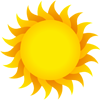
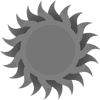
Color Fixed

diff --git a/SolarSystemManager.WEB/src/views/SolarSystemViewerView.vue b/SolarSystemManager.WEB/src/views/SolarSystemViewerView.vue
@@ -56,12 +56,12 @@ app.ticker.add((delta) =>
 });
 
 
-
+const solarObjects = ref([])
 // Get the json data for the solar system based on the id
-const solarObjects = SolarSystemService.GetSpaceObjects()
-
+solarObjects.value = SolarSystemService.GetSpaceObjects()
+console.log(solarObjects)
 //loop through the json data and plot the objects on the screen
-solarObjects.then((response) => {
+solarObjects.value.then((response) => {
 
   solarObjects.value = JSON.parse(response)
   console.log('hit')
@@ -74,14 +74,16 @@ solarObjects.then((response) => {
     console.log(solarObjects.value[i].objectSize)
     console.log(solarObjects.value[i].objectColor)
 
-    const sObj = PIXI.Sprite.from('/src/assets/Images/V_E/sun.png');
-    sObj.anchor.set(0.5);
-    sObj.scale.set(solarObjects.value[i].objectSize,solarObjects.value[i].objectSize);
-    sObj.x = solarObjects.value[i].xCoord;
-    sObj.y = solarObjects.value[i].yCoord;
-    sObj.blendMode = PIXI.BLEND_MODES.ADD()
+    const sprite = PIXI.Sprite.from('/src/assets/Images/V_E/sun.png');
+    sprite.anchor.set(0.5);
+    sprite.scale.set(solarObjects.value[i].objectSize *.2,solarObjects.value[i].objectSize * .2);
+    sprite.x = solarObjects.value[i].xCoord;
+    sprite.y = solarObjects.value[i].yCoord;
+    console.log('color: '+solarObjects.value[i].objectColor)
+    sprite.tint = solarObjects.value[i].objectColor;
+    //sObj.blendMode = PIXI.BLEND_MODES.ADD()
     // app.stage.addChild(sObj);
-    container.addChild(sObj);
+    container.addChild(sprite);
 
 
   }

diff --git a/SolarSystemManager.WEB/src/services/SolarSystemService.ts b/SolarSystemManager.WEB/src/services/SolarSystemService.ts
@@ -23,20 +23,17 @@ export default class SolarSystemService {
         console.error('Error in LoginService: ', error)
       })
   }
+  
+  static async GetSpaceObjects(): Promise<any> {
+      return FetchAPIService.get('/SolarSystem/GetSpaceObjects').then((data) => {
+          console.log('SolarSystemService: ', data)
+          return data
+      })
+  }
 
   static async GetPublicSolarSystems(): Promise<any> {
-    return FetchAPIService.get('/SolarSystem/GetAllPublicSolarSystems').then((data) => {
-      console.log('SolarSystemService: ', data)
-      return data
-    })
-    }
+   
 
-    static async GetSpaceObjects(): Promise<any> {
-        return FetchAPIService.get('/SolarSystem/GetSpaceObjects').then((data) => {
-            console.log('SolarSystemService: ', data)
-            return data
-        })
-    }
     return FetchAPIService.get('/SolarSystem/GetAllPublicSolarSystems')
       .then((data) => {
         return JSON.parse(data)

diff --git a/SolarSystemManager.RESTAPI/Controllers/SolarSystemController.cs b/SolarSystemManager.RESTAPI/Controllers/SolarSystemController.cs
@@ -107,12 +107,12 @@ namespace SolarSystemManager.RESTAPI.Controllers
             {
               //space object template
               //new SpaceObject(objID, systemId, objName, objType, x, y, objSize, objColor);
-                new SpaceObject(1, 1, "Sirius A", "Star", 5, 0, 10, 0x18D3BC), //two stars
-                new SpaceObject(2, 1, "Sirius B", "Star", 0, 0, 7, 0x25BCD6),
+                new SpaceObject(1, 1, "Sirius A", "Star", 5, 0, 10, "18D3BC"), //two stars
+                new SpaceObject(2, 1, "Sirius B", "Star", 0, 0, 7, "25BCD6"),
 
-                new SpaceObject(3, 1, "Thor", "Planet", 15, 0, 2, 0xE5E21C), //three planets
-                new SpaceObject(4, 1, "Loki", "Planet", 20, 0, 1, 0x1CE556),
-                new SpaceObject(5, 1, "Odin", "Planet", 25, 0, 3, 0x2F1CE5)
+                new SpaceObject(3, 1, "Thor", "Planet", 15, 0, 2, "E5E21C"), //three planets
+                new SpaceObject(4, 1, "Loki", "Planet", 20, 0, 1, "1CE556"),
+                new SpaceObject(5, 1, "Odin", "Planet", 25, 0, 3, "2F1CE5")
             };
 
             return Ok(spaceObjects);
